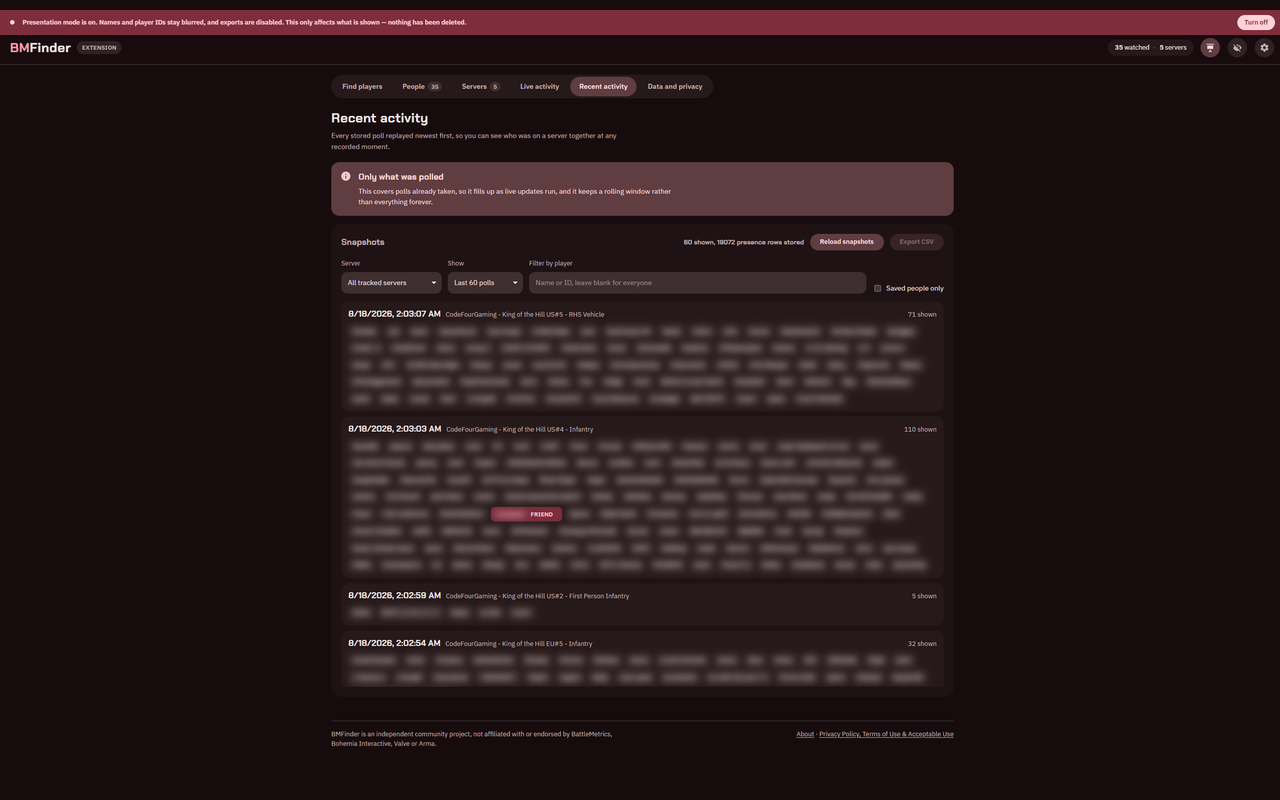
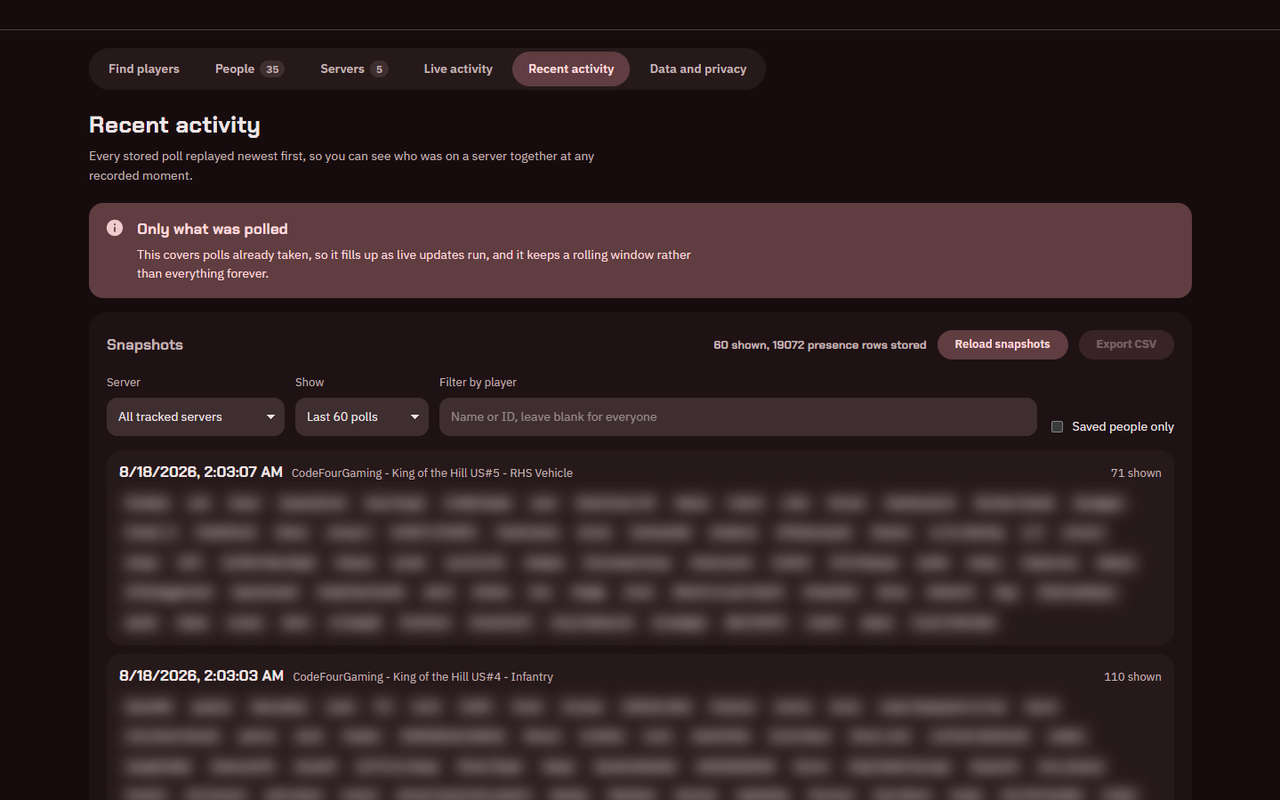
Recompose the listing screenshots around the content column
The captures are 2x full-page grabs about 2550px wide, but the app lays its
cards out in a centred column of roughly 1200px. Fitting the whole frame into
1280 therefore spent about half the image on empty margin and rendered the UI
at 1x, which is too small to read in the store's carousel, where screenshots
are shown well below full size.

Each shot is now cropped to its own measured content column plus a gutter,
which puts the UI at 84-94% instead of 50%. Both the column bounds and the
starting row are measured from the image rather than hard-coded, so a
recapture at a different window size still lands correctly.

Crops start at the tab bar. The page header's logo and controls sit outside
the content column and were being sliced, and the presentation-mode banner
above it read as broken when cut mid-sentence. Starting at the tabs gives a
clean top edge and keeps the navigation, which is what shows a viewer the
shape of the extension.

A bottom-anchored variant was tried for Live activity, to reach the online
roster: it opened mid-row on a run of "No saved people detected" and pulled
the footer and a destructive Clear stored polls button into frame. The
top-anchored crop leads with "1 saved people online" instead, which makes the
same point without either problem.

diff --git a/resize-screenshots.py b/resize-screenshots.py
@@ -1,88 +1,96 @@
-"""Produce exact 1280x800 listing screenshots from the full-resolution captures.
+"""Produce the 1280x800 listing screenshots from the full-resolution captures.
 
-The captures come in three shapes and no single transform suits all of them:
+The captures are 2x full-page grabs about 2550px wide, but the app lays its
+cards out in a centred max-width column roughly 1200px of that. Fitting the
+whole capture into 1280 therefore threw away half the frame on empty margin
+and rendered the UI at 1x, which is too small to read in the store's carousel.
 
-  full-page (aspect ~1.20)  People, DataPrivacy, LiveActivity
-  near-target (1.64)        RecentActivity
-  viewport (2.00)           Search, Servers
+So each shot is cropped to its own content column plus a gutter, and starts at
+the tab bar rather than at the top of the page: the header's logo and controls
+sit outside the column and would be sliced, and the presentation-mode banner
+above it reads as broken when cut mid-sentence. Starting at the tabs gives a
+clean top edge and keeps the navigation, which is the part that shows what the
+extension actually is.
 
-Every image is fitted to the full 1280 width first, so nothing is ever lost
-horizontally. What happens vertically then depends on the shape:
+Both bounds are measured from the image, not hard-coded, so a recapture at a
+different window size still lands correctly.
 
-  taller than 800  -> crop from the top. Squashing a 2100px page into 800px
-                      makes it unreadable at the size the store renders it,
-                      and the top of a dashboard carries the header, the tab
-                      bar and the first rows, which is what the shot is for.
-  shorter than 800 -> pad symmetrically with the page's own background colour,
-                      sampled from the capture so the join is invisible.
-
-Sources are PNG with alpha; output is PNG with the alpha flattened, because
-the store rejects an alpha channel. Downscaling uses Lanczos.
-
-Run: python resize-screenshots.mjs.py
+Run: python resize-screenshots.py
 """
 from pathlib import Path
 
+import numpy as np
 from PIL import Image
 
 DIR = Path(__file__).parent / "webstore-assets" / "screenshots"
 OUT = DIR / "listing"
 W, H = 1280, 800
+GUTTER = 100          # breathing room either side of the content column
+TOP_PAD = 26          # space above the tab bar
 
-# The five shots the listing uses, in the order the store should show them.
 WANTED = ["People", "Search", "LiveActivity", "RecentActivity", "DataPrivacy"]
 
 
-def background(im):
-    """Sample the page background from the capture's own corners.
+def content_column(arr, from_y=260):
+    """Horizontal bounds of the card column, ignoring the full-width header."""
+    body = arr[from_y:, :, :]
+    bg = np.median(body.reshape(-1, 3), axis=0)
+    diff = np.abs(body - bg).sum(axis=2)
+    cols = np.where(diff.max(axis=0) > 40)[0]
+    return int(cols[0]), int(cols[-1])
 
-    The top-left pixel sits in the header, which is not the page ground, so
-    take the most common colour along the bottom edge instead.
+
+def tab_bar_top(arr, left, right):
+    """First row of real content inside the column, below the page header.
+
+    The header and the presentation-mode banner span the full width, so they
+    are excluded by searching only within the column, starting below them.
     """
-    w, h = im.size
-    strip = im.crop((0, h - 2, w, h)).resize((w // 8, 1), Image.NEAREST)
-    colours = strip.getcolors(maxcolors=w) or []
-    return max(colours)[1] if colours else (13, 13, 15)
+    strip = arr[:, left:right, :]
+    bg = np.median(strip.reshape(-1, 3), axis=0)
+    diff = np.abs(strip - bg).sum(axis=2)
+    rows = np.where(diff.max(axis=1) > 40)[0]
+    rows = rows[rows > 100]           # clear the header band
+    return int(rows[0]) if len(rows) else 0
 
 
 def convert(src, dst):
-    im = Image.open(src)
-    im = im.convert("RGB")  # flattens alpha; the store rejects it
-    w, h = im.size
+    im = Image.open(src).convert("RGB")   # flattens alpha; the store rejects it
+    arr = np.asarray(im).astype(int)
+    iw, ih = im.size
 
-    scaled_h = round(h * W / w)
-    im = im.resize((W, scaled_h), Image.LANCZOS)
+    left, right = content_column(arr)
+    left = max(0, left - GUTTER)
+    right = min(iw, right + GUTTER)
 
-    if scaled_h > H:
-        im = im.crop((0, 0, W, H))  # anchor top, keep header and first rows
-        note = f"cropped {scaled_h - H}px from the bottom"
-    elif scaled_h < H:
-        pad = H - scaled_h
-        top = pad // 2
-        canvas = Image.new("RGB", (W, H), background(im))
-        canvas.paste(im, (0, top))
-        im = canvas
-        note = f"padded {top}px top / {pad - top}px bottom"
-    else:
-        note = "exact fit"
+    top = max(0, tab_bar_top(arr, left, right) - TOP_PAD)
 
+    cw = right - left
+    ch = round(cw * H / W)
+    if top + ch > ih:                      # not enough page below: sit on the bottom
+        top = max(0, ih - ch)
+    if ch > ih:                            # page shorter than the crop: take it all
+        ch = ih
+        cw = round(ch * W / H)
+        right = min(iw, left + cw)
+        cw = right - left
+
+    im = im.crop((left, top, left + cw, top + ch)).resize((W, H), Image.LANCZOS)
     im.save(dst, "PNG", optimize=True)
-    return note, dst.stat().st_size
+    return cw, round(W / cw * 100)
 
 
 def main():
     OUT.mkdir(exist_ok=True)
-    made = 0
     for i, stem in enumerate(WANTED, 1):
         src = DIR / f"{stem}.jpg"
         if not src.exists():
             print(f"  MISSING  {src.name}")
             continue
         dst = OUT / f"{i}-{stem}.png"
-        note, size = convert(src, dst)
-        print(f"  {dst.name:<22} 1280x800  {size // 1024:>4}KB  ({note})")
-        made += 1
-    print(f"\n{made} screenshot(s) written to webstore-assets/screenshots/listing/")
+        cw, pct = convert(src, dst)
+        kb = dst.stat().st_size // 1024
+        print(f"  {dst.name:<22} 1280x800  {kb:>4}KB  (from {cw}px column, UI at {pct}%)")
 
 
 if __name__ == "__main__":
